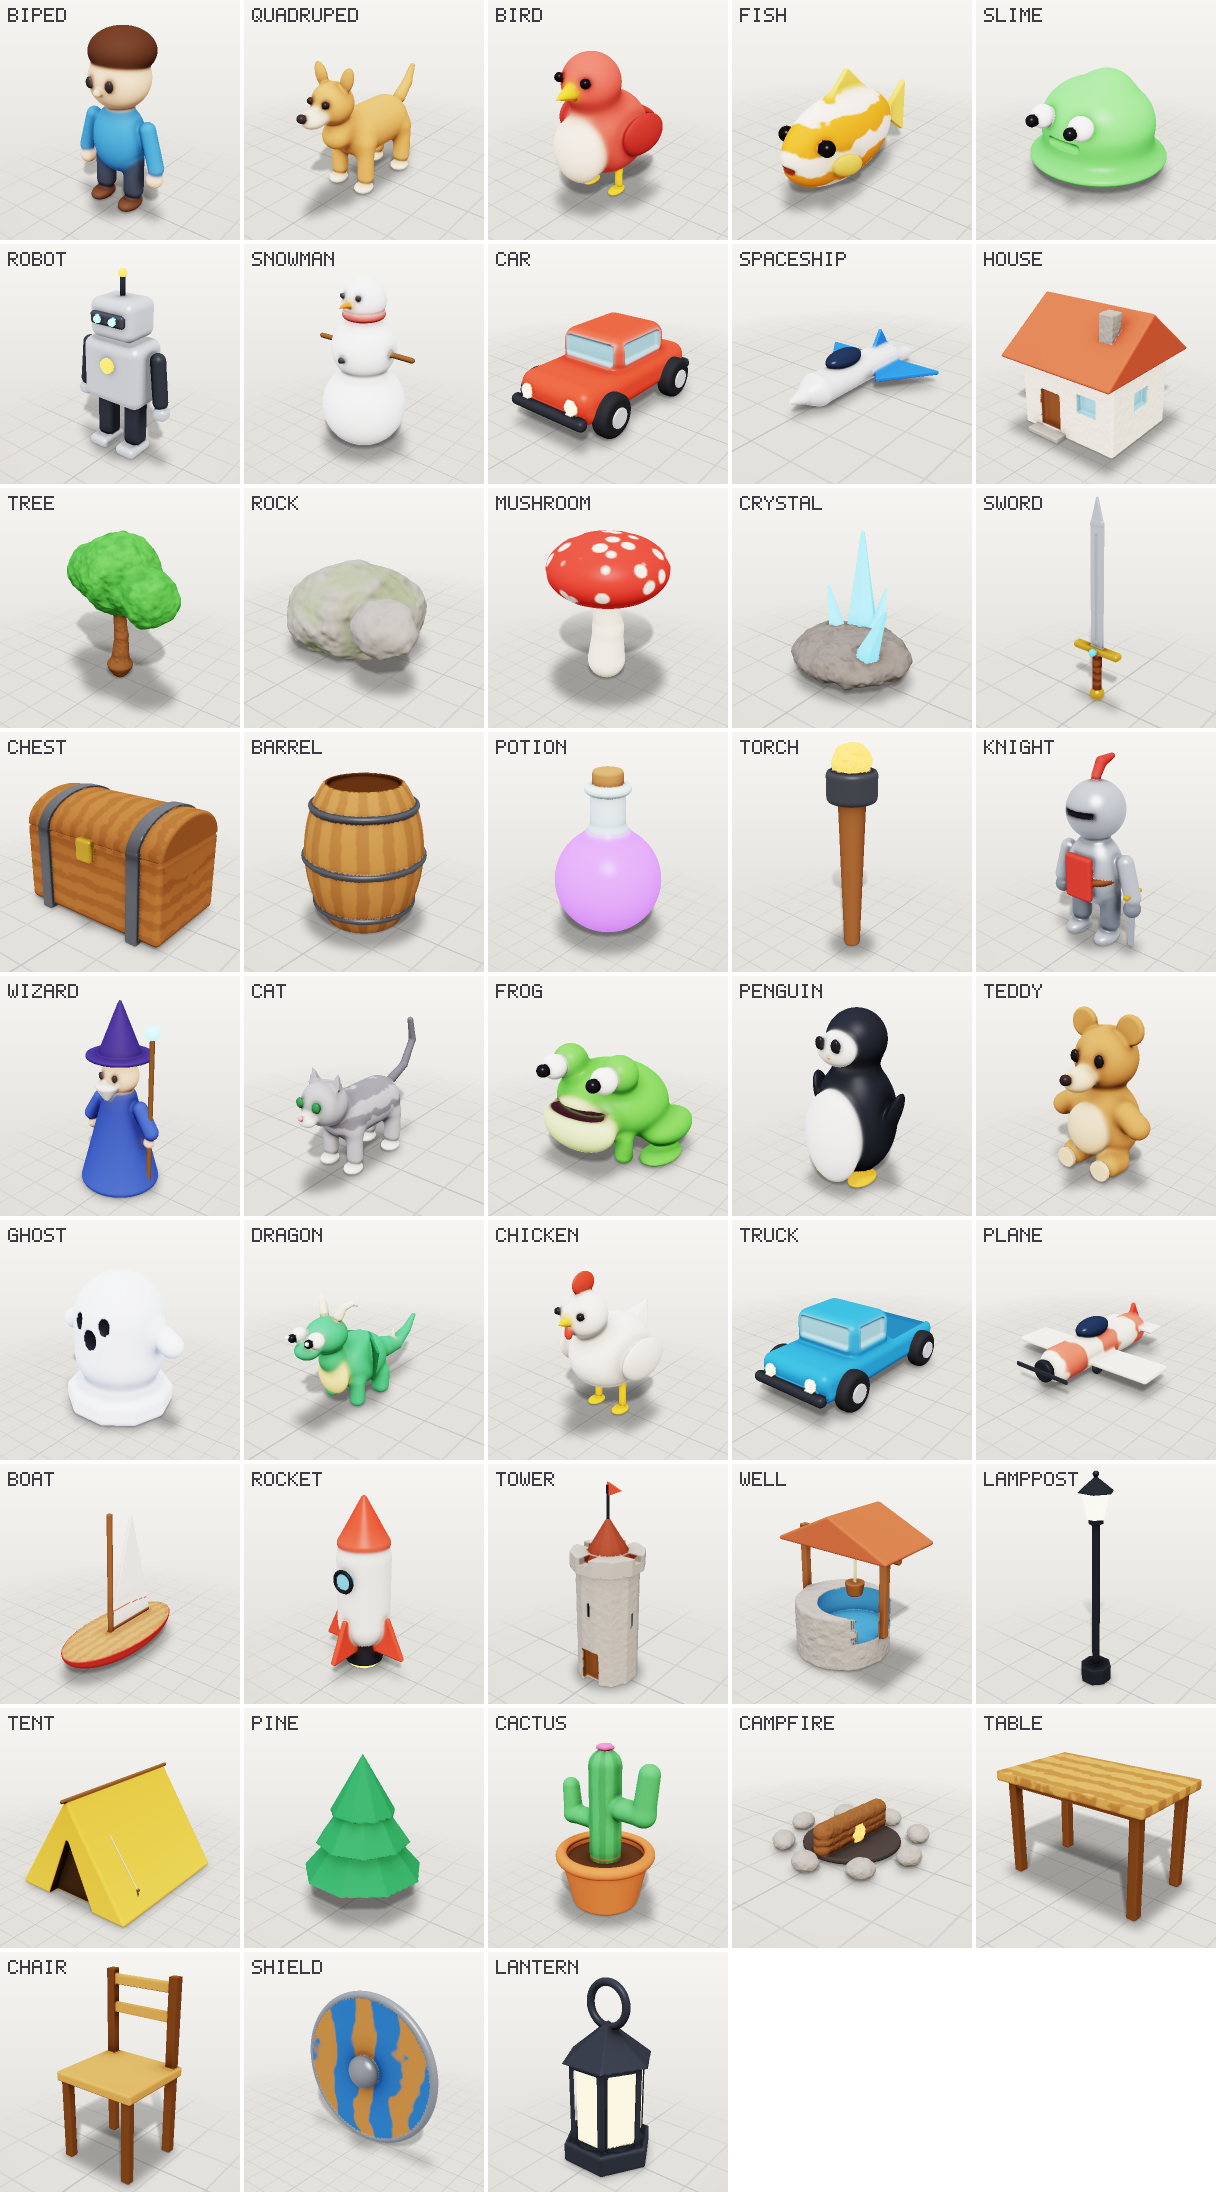
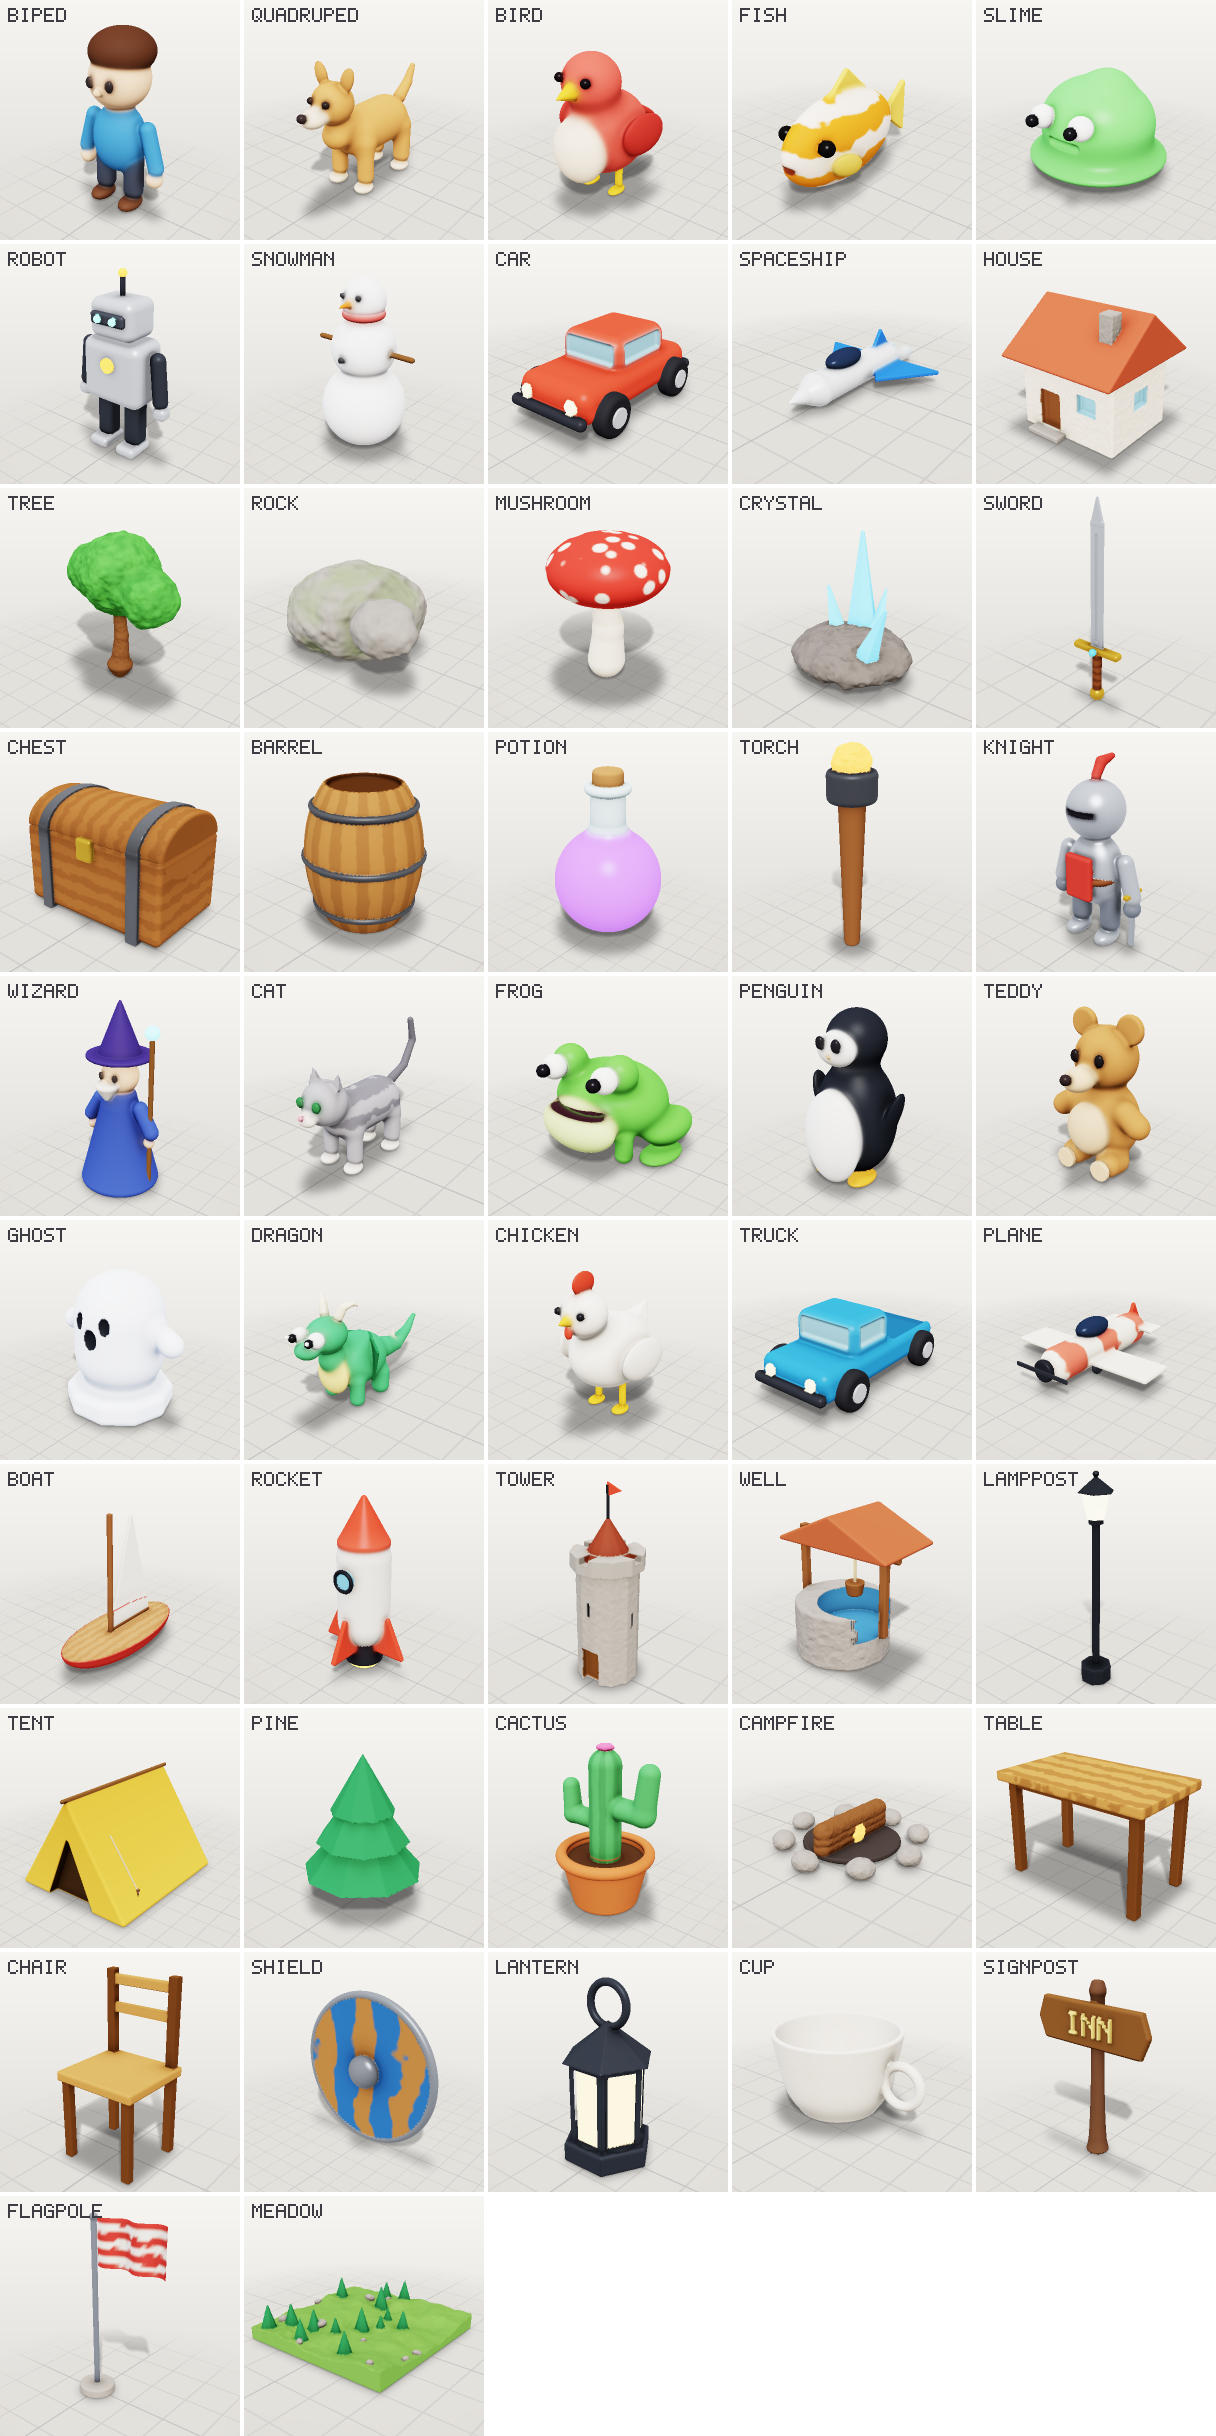
Add cup, sign post, flag pole and meadow templates
Each uses the new shapes (a lathe wall, an extruded board with text, a waving sheet, terrain with scatters) and passes the critics. Smooth profiles now use centripetal Catmull-Rom, which never folds back when points are unevenly spaced; the uniform curve split the sign post in two.

diff --git a/src/templates/more.ts b/src/templates/more.ts
@@ -431,6 +431,50 @@ export const lantern = S('Lantern', {
 	]
 });
 
+export const cup = S('Cup', {
+	notes: 'A tea cup ~0.2 m: a smooth lathe wall (shell) with a torus handle. Recolour via palette.',
+	palette: { glaze: '#e8e2d6', rim: '#2f5f9a' },
+	settings: { resolution: 110 },
+	parts: [
+		{ id: 'cup', role: 'body', shape: { type: 'lathe', smooth: true, shell: 0.012, profile: [[0.1, 0], [0.13, 0.05], [0.15, 0.14], [0.16, 0.2]] }, material: { color: 'glaze', roughness: 0.25 }, pattern: { kind: 'gradient', color: 'rim', scale: 0.03, amount: 0 } },
+		{ id: 'handle', shape: { type: 'torus', radius: 0.05, tube: 0.012 }, rotation: [90, 0, 0], attach: { to: 'cup', side: 'left', offset: [0, 0.1], embed: 0.3 }, material: { color: 'glaze', roughness: 0.25 } }
+	]
+});
+
+export const signpost = S('Sign post', {
+	notes: 'A tavern sign ~1.6 m: turned post (lathe), an extruded board with a chamfer, and block text. Change the word in `word`.',
+	palette: { wood: '#6b4a2b', post: '#5a4030', paint: '#f2d27a' },
+	settings: { resolution: 110 },
+	parts: [
+		{ id: 'post', role: 'body', shape: { type: 'lathe', smooth: true, profile: [[0.09, 0], [0.07, 0.1], [0.05, 1.2], [0.06, 1.25], [0.04, 1.32]] }, material: { color: 'post', roughness: 0.85 } },
+		{ id: 'board', shape: { type: 'extrude', depth: 0.06, bevel: 0.012, outline: [[-0.42, -0.16], [0.42, -0.16], [0.48, 0], [0.42, 0.16], [-0.42, 0.16], [-0.48, 0]] }, attach: { to: 'post', side: 'front', offset: [0, 0.55], embed: 0.2 }, material: { color: 'wood', roughness: 0.8 } },
+		{ id: 'word', shape: { type: 'text', text: 'INN', height: 0.16, depth: 0.05 }, attach: { to: 'board', side: 'front', embed: 0.5 }, material: { color: 'paint', roughness: 0.6 } }
+	]
+});
+
+export const flagpole = S('Flag pole', {
+	notes: 'A flag ~2.2 m on a pole: the flag is a thin sheet with a wave; stripes via the pattern. Swap colours in the palette.',
+	palette: { metal: '#8a8f99', cloth: '#c8403a', stripe: '#f3efe6', stone: '#9a948c' },
+	settings: { resolution: 110 },
+	parts: [
+		{ id: 'base', role: 'body', shape: { type: 'cylinder', height: 0.12, radius: 0.22, rounding: 0.02 }, position: [0, 0.06, 0], material: { color: 'stone', roughness: 0.9 } },
+		{ id: 'pole', shape: { type: 'cylinder', height: 2.1, radius: 0.035 }, attach: { to: 'base', side: 'top', embed: 0.05 }, material: { color: 'metal', metalness: 0.8, roughness: 0.35 } },
+		{ id: 'finial', shape: { type: 'sphere', radius: 0.05 }, attach: { to: 'pole', side: 'top', embed: 0.4 }, material: { color: 'metal', metalness: 0.9, roughness: 0.3 } },
+		{ id: 'flag', shape: { type: 'sheet', size: [0.9, 0.55], wave: { amplitude: 0.05, length: 0.45 } }, attach: { to: 'pole', side: 'left', offset: [0, 0.78], embed: 1 }, position: [0.47, 0, 0], material: { color: 'cloth', roughness: 0.9 }, pattern: { kind: 'stripes', color: 'stripe', scale: 0.09, axis: 'y' } }
+	]
+});
+
+export const meadow = S('Meadow tile', {
+	notes: 'A 4 × 4 m ground tile: terrain with trees and rocks scattered over it. Change seeds for another layout, counts for density.',
+	palette: { grass: '#6a9a4a', leaves: '#2f7a4b', rock: '#8f8a84', trunk: '#6f4a2e' },
+	settings: { resolution: 128 },
+	parts: [
+		{ id: 'ground', role: 'body', shape: { type: 'terrain', size: [4, 4], height: 0.4, seed: 5 }, material: { color: 'grass', roughness: 0.95 } },
+		{ id: 'tree', shape: { type: 'cone', height: 0.6, radius: 0.18, sides: 7 }, material: { color: 'leaves', roughness: 0.85 }, scatter: { on: 'ground', count: 14, minGap: 0.45, scale: [0.7, 1.4], align: false, seed: 2 } },
+		{ id: 'rock', shape: { type: 'ellipsoid', radii: [0.12, 0.07, 0.1] }, material: { color: 'rock', roughness: 0.95 }, detail: { amount: 0.006, scale: 0.03 }, scatter: { on: 'ground', count: 10, minGap: 0.3, scale: [0.6, 1.5], seed: 9 } }
+	]
+});
+
 export const MORE = [
 	{ id: 'knight', title: 'Knight', tags: ['character', 'armor', 'medieval'], scene: knight },
 	{ id: 'wizard', title: 'Wizard', tags: ['character', 'magic', 'fantasy'], scene: wizard },
@@ -455,5 +499,9 @@ export const MORE = [
 	{ id: 'table', title: 'Wooden table', tags: ['furniture', 'prop', 'tavern'], scene: table },
 	{ id: 'chair', title: 'Wooden chair', tags: ['furniture', 'prop', 'tavern'], scene: chair },
 	{ id: 'shield', title: 'Round shield', tags: ['weapon', 'prop', 'item'], scene: shield },
-	{ id: 'lantern', title: 'Lantern', tags: ['prop', 'light', 'item'], scene: lantern }
+	{ id: 'lantern', title: 'Lantern', tags: ['prop', 'light', 'item'], scene: lantern },
+	{ id: 'cup', title: 'Cup', tags: ['prop', 'item', 'kitchen'], scene: cup },
+	{ id: 'signpost', title: 'Sign post', tags: ['prop', 'street', 'text'], scene: signpost },
+	{ id: 'flagpole', title: 'Flag pole', tags: ['prop', 'cloth', 'environment'], scene: flagpole },
+	{ id: 'meadow', title: 'Meadow tile', tags: ['nature', 'environment', 'terrain'], scene: meadow }
 ];

diff --git a/src/core/shapes2d.ts b/src/core/shapes2d.ts
@@ -10,19 +10,36 @@ import { fbm3 } from './sdf.js';
 
 export type Pt = [number, number];
 
-/** Catmull-Rom through the points, `steps` segments per span; closed curves wrap around. */
+/**
+ * Centripetal Catmull-Rom through the points, `steps` segments per span;
+ * closed curves wrap around. Centripetal spacing never overshoots or loops
+ * back, even when the points are unevenly spaced (a short foot, then a long
+ * shaft), so a smoothed profile never folds over itself.
+ */
 export function smoothPath(pts: Pt[], closed: boolean, steps = 8): Pt[] {
 	const n = pts.length;
 	if (n < 3) return pts;
-	const at = (i: number) => (closed ? pts[((i % n) + n) % n] : pts[Math.max(0, Math.min(n - 1, i))]);
+	const at = (i: number): Pt => {
+		if (closed) return pts[((i % n) + n) % n];
+		if (i < 0) return [2 * pts[0][0] - pts[1][0], 2 * pts[0][1] - pts[1][1]];
+		if (i >= n) return [2 * pts[n - 1][0] - pts[n - 2][0], 2 * pts[n - 1][1] - pts[n - 2][1]];
+		return pts[i];
+	};
+	const knot = (a: Pt, b: Pt) => Math.max(1e-6, Math.sqrt(Math.hypot(b[0] - a[0], b[1] - a[1])));
 	const out: Pt[] = [];
 	const spans = closed ? n : n - 1;
 	for (let i = 0; i < spans; i++) {
 		const p0 = at(i - 1), p1 = at(i), p2 = at(i + 1), p3 = at(i + 2);
+		const t0 = 0, t1 = t0 + knot(p0, p1), t2 = t1 + knot(p1, p2), t3 = t2 + knot(p2, p3);
 		for (let k = 0; k < steps; k++) {
-			const t = k / steps, t2 = t * t, t3 = t2 * t;
-			const f = (a: number, b: number, c: number, d: number) => 0.5 * (2 * b + (-a + c) * t + (2 * a - 5 * b + 4 * c - d) * t2 + (-a + 3 * b - 3 * c + d) * t3);
-			out.push([f(p0[0], p1[0], p2[0], p3[0]), f(p0[1], p1[1], p2[1], p3[1])]);
+			const t = t1 + ((t2 - t1) * k) / steps;
+			const lerp = (a: Pt, b: Pt, ta: number, tb: number): Pt => {
+				const w = (t - ta) / (tb - ta);
+				return [a[0] + (b[0] - a[0]) * w, a[1] + (b[1] - a[1]) * w];
+			};
+			const a1 = lerp(p0, p1, t0, t1), a2 = lerp(p1, p2, t1, t2), a3 = lerp(p2, p3, t2, t3);
+			const b1 = lerp(a1, a2, t0, t2), b2 = lerp(a2, a3, t1, t3);
+			out.push(lerp(b1, b2, t1, t2));
 		}
 	}
 	if (!closed) out.push(pts[n - 1]);

diff --git a/src/test/shapes.test.ts b/src/test/shapes.test.ts
@@ -5,6 +5,7 @@ import { buildScene } from '../core/build.js';
 import { FORMAT, parseScene, type Shape } from '../core/schema.js';
 import { shapeBounds, shapeSdf } from '../core/sdf.js';
 import { simplifyBuild } from '../core/simplify.js';
+import { smoothPath } from '../core/shapes2d.js';
 import { critique } from '../critic/critics.js';
 import { exportGlb } from '../export/gltf.js';
 
@@ -29,6 +30,11 @@ describe('lathe', () => {
 		expect(cup(0.2, 0.25, 0)).toBeLessThan(0); // inside the wall
 		expect(cup(0, 0.3, 0)).toBeGreaterThan(0.1); // the hollow middle
 		expect(cup(0, 0, 0)).toBeLessThan(0); // the closed bottom
+	});
+	it('smoothing never folds a profile back, even with uneven spacing', () => {
+		// a short foot, a long shaft, a short cap: uniform Catmull-Rom loops back here and splits the post
+		const out = smoothPath([[0.09, 0], [0.07, 0.1], [0.05, 1.2], [0.06, 1.25], [0.04, 1.32]], false);
+		for (let i = 1; i < out.length; i++) expect(out[i][1]).toBeGreaterThanOrEqual(out[i - 1][1] - 1e-9);
 	});
 	it('smooth runs a curve through the points', () => {
 		const sharp = sdf({ type: 'lathe', profile: [[0.1, 0], [0.3, 0.5], [0.1, 1]] }).f;

diff --git a/docs/templates.md b/docs/templates.md
@@ -512,3 +512,47 @@ Hand lantern ~0.4 m with a glowing glass core, metal frame and ring handle.
 - parts: `base`, `frame`, `pane`, `glass`, `cap`, `handle`
 - roles: body
 - palette: `metal` #3a3e46, `glass` #ffd98a
+
+## Cup — `cup`
+
+<img src="templates/cup.png" width="192" alt="Cup template, three-quarter view">
+
+A tea cup ~0.2 m: a smooth lathe wall (shell) with a torus handle. Recolour via palette.
+
+- tags: prop, item, kitchen
+- parts: `cup`, `handle`
+- roles: body
+- palette: `glaze` #e8e2d6, `rim` #2f5f9a
+
+## Sign post — `signpost`
+
+<img src="templates/signpost.png" width="192" alt="Sign post template, three-quarter view">
+
+A tavern sign ~1.6 m: turned post (lathe), an extruded board with a chamfer, and block text. Change the word in `word`.
+
+- tags: prop, street, text
+- parts: `post`, `board`, `word`
+- roles: body
+- palette: `wood` #6b4a2b, `post` #5a4030, `paint` #f2d27a
+
+## Flag pole — `flagpole`
+
+<img src="templates/flagpole.png" width="192" alt="Flag pole template, three-quarter view">
+
+A flag ~2.2 m on a pole: the flag is a thin sheet with a wave; stripes via the pattern. Swap colours in the palette.
+
+- tags: prop, cloth, environment
+- parts: `base`, `pole`, `finial`, `flag`
+- roles: body
+- palette: `metal` #8a8f99, `cloth` #c8403a, `stripe` #f3efe6, `stone` #9a948c
+
+## Meadow tile — `meadow`
+
+<img src="templates/meadow.png" width="192" alt="Meadow tile template, three-quarter view">
+
+A 4 × 4 m ground tile: terrain with trees and rocks scattered over it. Change seeds for another layout, counts for density.
+
+- tags: nature, environment, terrain
+- parts: `ground`, `tree`, `rock`
+- roles: body
+- palette: `grass` #6a9a4a, `leaves` #2f7a4b, `rock` #8f8a84, `trunk` #6f4a2e

diff --git a/docs/format.md b/docs/format.md
@@ -21,7 +21,7 @@ layouts and styles get one the first time either format has to change.
 ## How it is enforced
 
 The test suite keeps a frozen copy of everything Clayform shipped when the format was frozen:
-all 43 templates, the README's goblin, the example layout and the example style sheet
+all 43 templates of that release, the README's goblin, the example layout and the example style sheet
 ([`src/test/fixtures/clayform-1.json`](../src/test/fixtures/clayform-1.json)). Every release
 must parse and build each of them. The fixture file is never edited. A new format gets a corpus
 file of its own next to it.

diff --git a/README.md b/README.md
@@ -7,7 +7,7 @@ No Blender, no GPU, no browser: it is a Node library with an MCP server.
 
 **Docs:** [clayform.sadelabs.site](https://clayform.sadelabs.site) · **Made with it:** [the showcase](https://clayform.sadelabs.site/showcase)
 
-![The 43 templates, rendered by Clayform's own software renderer](docs/gallery.png)
+![The 47 templates, rendered by Clayform's own software renderer](docs/gallery.png)
 
 *Every image in this README is a real Clayform render, regenerated by `scripts/`.*
 
